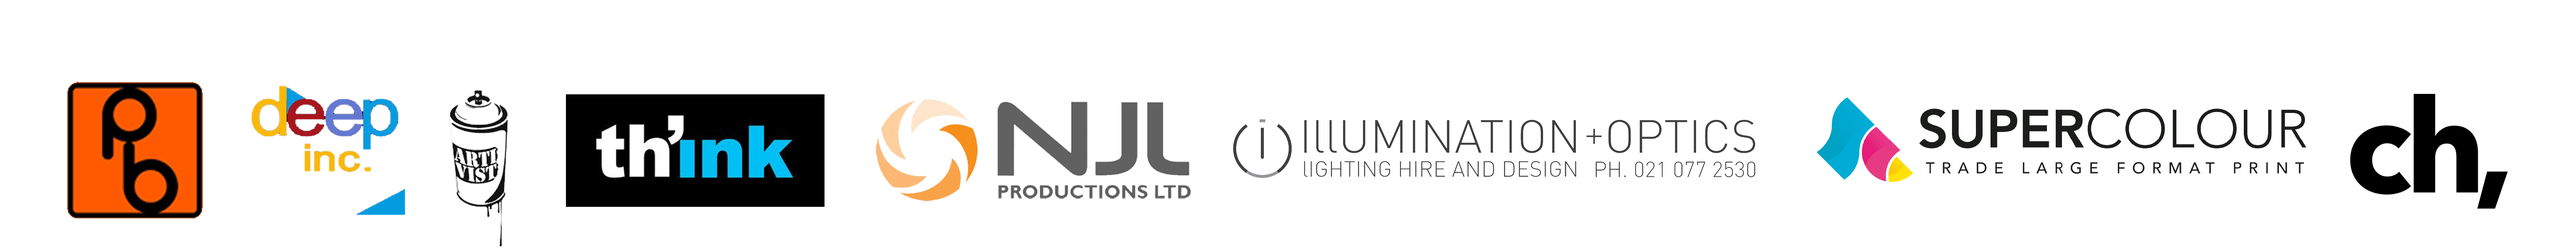
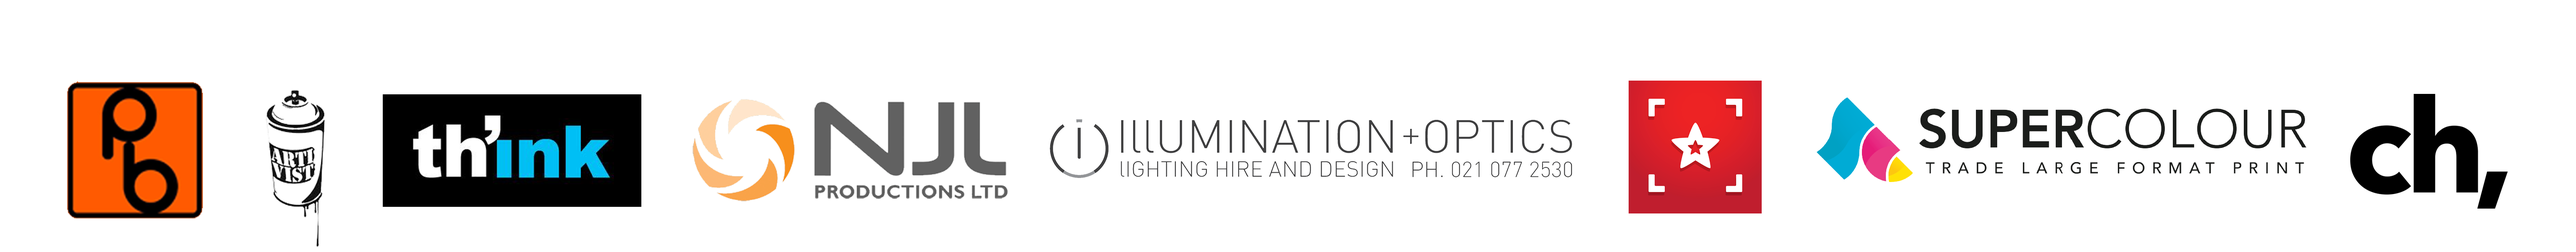
Client requests

Changed region(s): [[0.0935, 0.2988, 0.6856, 0.8664]]

diff --git a/public/css/custom.css b/public/css/custom.css
@@ -5,6 +5,9 @@
 	html {
 		padding-bottom: 0px !important;
 		padding-bottom: 0px !important;
+		background: #c2180f;
+		background: linear-gradient(90deg, #c2180f, #e06019);
+		color: #fff;
 	}
 	#ragapaBottomDiv {
 		display: none !important;
@@ -140,7 +143,7 @@
 	}
 	.cell3 {
 		background: #c2180f;
-		background: linear-gradient(30deg, #c2180f, #e06019);
+		background: linear-gradient(90deg, #c2180f, #e06019);
 		color: #fff;
 	}
 	.cell5 {
@@ -512,6 +515,18 @@
 		padding-top: 25px;
 		height: 0;
 	}
+	.videoWrapper img { 
+		position: absolute; 
+		display: block; 
+		top: 0; 
+		left: 0; 
+		width: 100%; 
+		height: 100%; 
+		z-index: 20; 
+		cursor: pointer; 
+	}
+	.video.player img { display: none; }
+.video.player:after { display: none; }
 	.videoWrapper iframe {
 		position: absolute;
 		top: 0;

diff --git a/public/js/jquery.js b/public/js/jquery.js
@@ -78,6 +78,23 @@ $(document).ready(function(){
     //     };
     
     // });
+    $(function() { 
+    var videos  = $(".videoWrapper");
+ 
+        videos.on("click", function(){
+            var elm = $(this),
+                conts   = elm.contents(),
+                le      = conts.length,
+                ifr     = null;
+ 
+            for(var i = 0; i<le; i++){
+              if(conts[i].nodeType == 8) ifr = conts[i].textContent;
+            }
+ 
+            elm.addClass("player").html(ifr);
+            elm.off("click");
+        });
+    });
 });
 
 

diff --git a/resources/views/capture.blade.php b/resources/views/capture.blade.php
@@ -40,28 +40,34 @@
     </div>
 </div>
 
-<div class="ozo">		
+<div class="cell4" id="cluster"> 
 	<div class="container paddingbottomextend paddingtopextend">
 		<div class="row">
-			<div class="col-md-8 col-md-offset-2 test">
-				<h3 class="darkblue"> NOKIA OZO</h3><br>
-				<p class="darkblue">Capturing 360° spherical video and 360x360 surround sound with unique interactive 
-				monitoring, OZO increases both the quality and efficiency of Virtual Reality production.</p>
+			<div class="col-md-5">
+				<h3 class=""> FREEDOM360 GOPRO RIG</h3><br>
+				<p class="">We use this cluster of GoPro cameras for most applications &amp; projects. Cost 
+				effective &amp; impressive results the cluster works by capturing a series of 170° x 120° native shots 
+				stitched together with clever software to create our immersive VR360° media.<br><br>
+				The complete cluster including patented mount weighs in at under 600grams &amp; is extremely versatile 
+				&amp; strong.  A shell makes the cluster waterproof for underwater shots; we mount on drones for flying 
+				/ tracking shots; &amp; we have custom designed remote control vehicles for terrestrial tracking shots. 
+				In the post production we can hide the mounting or vehicle in the seam of the stitch for a complete &amp; 
+				total immersive experience.</p>
 			</div>
-			<div class="col-md-8 col-md-offset-2 col-xs-12 carousel">
-				<div class="owl-carousel">
-					<div class="item" style="width:375px"><img src="img/ozo00.jpg"></div>
-				    <div class="item" style="width:312.5px"><img src="img/ozo01.jpg"></div>
-				    <div class="item" style="width:312.5px"><img src="img/ozo02.jpg"></div>
-				    <div class="item" style="width:375px"><img src="img/ozo03.jpg"></div>
-				    <div class="item" style="width:625px"><img src="img/ozo04.jpg"></div>
-				    <div class="item" style="width:437.5px"><img src="img/ozo05.jpg"></div>
-				    <div class="item" style="width:437.5px"><img src="img/ozo06.jpg"></div>
+			<div class="col-md-7">
+				<div class="moving-zone">
+				    <div class="popup">
+				        <img class="margin" src="img/fallback_sky2.2.jpg" width="100%">
+				        <div class="moving-zone-2">
+				        	<div class="popup-2">
+				        		<img src="img/cluster.png" width="105%">
+				        	</div>
+				        </div>
+				    </div>
 				</div>
 			</div>
-		</div>
+		 </div>
 	</div>
-	<img class="imgozo" src="img/ozo.png" width="100%">
 </div>
 
 <div class="fly">		
@@ -87,35 +93,31 @@
 	</div>
 	<img class="imgfly" src="img/360fly2.png" width="100%">
 </div>
-<div class="cell4" id="cluster"> 
+
+<div class="ozo">		
 	<div class="container paddingbottomextend paddingtopextend">
 		<div class="row">
-			<div class="col-md-5">
-				<h3 class=""> 360HEROS CLUSTER</h3><br>
-				<p class="">We use this cluster of GoPro cameras for most applications &amp; projects. Cost 
-				effective &amp; impressive results the cluster works by capturing a series of 170° x 120° native shots 
-				stitched together with clever software to create our immersive VR360° media.
-				The complete cluster including patented mount weighs in at under 600grams &amp; is extremely versatile 
-				&amp; strong.  A shell makes the cluster waterproof for underwater shots; we mount on drones for flying 
-				/ tracking shots; &amp; we have custom designed remote control vehicles for terrestrial tracking shots. 
-				In the post production we can hide the mounting or vehicle in the seam of the stitch for a complete &amp; 
-				total immersive experience.</p>
+			<div class="col-md-8 col-md-offset-2 test">
+				<h3 class="darkblue"> NOKIA OZO</h3><br>
+				<p class="darkblue">Capturing 360° spherical video and 360x360 surround sound with unique interactive 
+				monitoring, OZO increases both the quality and efficiency of Virtual Reality production.</p>
 			</div>
-			<div class="col-md-7">
-				<div class="moving-zone">
-				    <div class="popup">
-				        <img class="margin" src="img/fallback_sky2.2.jpg" width="100%">
-				        <div class="moving-zone-2">
-				        	<div class="popup-2">
-				        		<img src="img/cluster.png" width="105%">
-				        	</div>
-				        </div>
-				    </div>
+			<div class="col-md-8 col-md-offset-2 col-xs-12 carousel">
+				<div class="owl-carousel">
+					<div class="item" style="width:375px"><img src="img/ozo00.jpg"></div>
+				    <div class="item" style="width:312.5px"><img src="img/ozo01.jpg"></div>
+				    <div class="item" style="width:312.5px"><img src="img/ozo02.jpg"></div>
+				    <div class="item" style="width:375px"><img src="img/ozo03.jpg"></div>
+				    <div class="item" style="width:625px"><img src="img/ozo04.jpg"></div>
+				    <div class="item" style="width:437.5px"><img src="img/ozo05.jpg"></div>
+				    <div class="item" style="width:437.5px"><img src="img/ozo06.jpg"></div>
 				</div>
 			</div>
-		 </div>
+		</div>
 	</div>
+	<img class="imgozo" src="img/ozo.png" width="100%">
 </div>
+
 
 <div class="process">
 	<div class="container no-padding-bottom no-padding-top">
@@ -174,10 +176,14 @@
 				<br><br>
 				+NZVR360° come ready for your location &amp; can even provide the espresso machine; our production 
 				involves all audio (playback &amp; recording) &amp; lighting for any location requirement.</p>
+				<form target="_blank" action="http://www.planbeta.co.nz/make" class="button2">
+                    <div class="btn"><input type="submit" value="Location &amp; Event Services"></div>
+                </form>
 			</div>
 		</div>
 		<br><br>
 		<div class="row">
+
 		</div>
 	</div>
 </div>

diff --git a/resources/views/delivery.blade.php b/resources/views/delivery.blade.php
@@ -64,6 +64,9 @@
 				experiences that change how we communicate, how we are entertained, &amp; 
 				how we learn &amp; train. Each &amp; every component has been redesigned from 
 				the ground up to provide better comfort, ergonomics, &amp; performance.</p>
+				<form target="_blank" action="https://www.htcvive.com/anz/" class="button2">
+                    <div class="btn"><input type="submit" value="Learn More"></div>
+                </form>
 			</div>
 			<div class="col-md-8 col-md-offset-2 col-xs-12">
 				<div class="videoWrapper">
@@ -91,6 +94,7 @@
 				The magic of presence
 				Rift’s advanced display technology combined with its precise, low-latency constellation tracking system enables the sensation of presence – the feeling as though you’re actually there. The magic of presence changes everything. You’ve never experienced immersion like this.
 				</p>
+				
 			</div>
        	</div>
     </div>
@@ -159,12 +163,11 @@
 	<div class="container paddingtopextend">
 		<div class="row">
 			<div class="col-md-6">
-				<h3>VRIDEO / STREAM - PLAY - UPLOAD - APPS</h3><br>
-				<p>Virtual reality is finally on the verge of its breakthrough. This represents a huge opportunity not only for gaming, but also for immersive video.
+				<h3>LITTLSTAR - PLAY - UPLOAD - APPS</h3>
+				<span><p> THE WORLD REVOLVES AROUND YOU</p></span>
+				<p>LITTLSTAR IS A GLOBAL NETWORK DEDICATED TO VIRTUAL REALITY AND 360 CONTENT.
 				<br><br>
-				Over the history of entertainment, each new media format to emerge has represented a step forward in immersion and presence. Immersive video is arguably the culmination of this evolution, a media format in which consuming content is becoming indistinguishable from having real life experiences.
-				<br><br>
-				Vrideo was founded in 2014 by entrepreneurs Alex Rosenfeld and Kuangwei Hwang to address the needs of the growing community of producers looking to distribute immersive video and the growing audience of consumers looking to discover immersive video. We're building a centralised, streaming, hardware-agnostic, and independent platform for immersive video.</p>
+				Littlstar are excited and passionate about the future of entertainment, education, storytelling and immersive experiences powered by the new medium of virtual reality. The innovations in the space allow us to be instantly catapulted into experiences ranging from a front row seat at a concert to a shark infested shipwreck on everything from your mobile device, desktop, television, or headset.</p>
 			</div>
 			<div class="col-md-6">
 				<img src="img/vrideo2.png" class="center-block" width="100%">
@@ -172,30 +175,8 @@
 		</div>
 		<div class="row">
 			<div class="col-md-6">
-				<form target="_blank" action="https://www.vrideo.com" class="button2">
-                    <div class="btn"><input type="submit" value="www.vrideo.com"></div>
-                </form><br>
-			</div>
-		</div>
-	</div>
-</div>
-<div class="ozo"> 
-	<div class="container paddingbottomextend">
-		<div class="row">
-			<div class="col-md-6 pull-right">
-				<h3>DEEP INC / LIQUID CINEMA</h3><br>
-				<p>LIQUID CINEMA™ is a revolutionary software product that allows the creation and distribution of highly sophisticated immersive 360 VR based cinema experiences. It puts easy to use affordable authoring tools in the hands of producers, filmmakers, and interactive artists, while at the same time giving online content producers, such as broadcasters an out of the box solution to distribute cinematic VR content to audiences around the world, via the web, mobile and dedicated VR devices in a cost effective manner.
-				<br><br>
-				Powered by DEEP’s Liquid Cinema technology, we have launched the first broadcaster dedicated 360/VR platform:  ARTE360. This mobile app from the European cultural network ARTE provides immersive and interactive experiences in 360°-video and virtual reality and is available on both iOS and Android.</p>
-			</div>
-			<div class="col-md-6">
-				<img src="img/deepinc.png" class="center-block" width="100%">
-			</div>
-		</div>
-		<div class="row">
-			<div class="col-md-6 pull-right">
-				<form target="_blank" action="http://deep-inc.com" class="button2">
-                    <div class="btn"><input type="submit" value="www.deep-inc.com"></div>
+				<form target="_blank" action="https://littlstar.com/nzvr360" class="button2">
+                    <div class="btn"><input type="submit" value="www.littlstar.com"></div>
                 </form><br>
 			</div>
 		</div>

diff --git a/resources/views/home.blade.php b/resources/views/home.blade.php
@@ -46,8 +46,10 @@
     	<div class="row nopadmarg flexbox">
 			<div class="col-md-6 cell4 nopadmarg captdeli table-cell3">
 	    		<div class="row nopadmarg2 deli relative" >
-	    			<h2>LIVE</h2>
-                    <p>Experience +NZVR360° right here, right now. Live is compatible with Desktop, Mobile and VR Dedicated devices. </p>
+	    			<h2>PREVIEW</h2>
+                    <p>Experience a preview of +NZVR360° right here, right now. Preview is compatible with Desktop, Mobile &amp; VR Dedicated devices. 
+                    Keep an eye out for more &amp; don't forget to check out our <strong><a class="white" target="_blank" href="https://littlstar.com/nzvr360">'LITTLSTAR'</a></strong>
+                    profile for more videos!</p>
                     <h1 class="center font-large"><a class="whiteplay opacity" href="/live"><i class="fa fa-play"></i></a></h1>
     			</div>
     		</div>
@@ -104,7 +106,8 @@
     			<div class="row nopadmarg2 deli" >
     				<h4 class="center">"HIT THE GROUND RUNNING"</h4><br>
                     <div class="videoWrapper">
-                        <iframe width='560' height='350' src='http://www.vrideo.com/embed/bnOWUbFQ' scrolling='no' frameborder='0' allowfullscreen='1'></iframe>                    
+                        <img src="img/poster.jpg">
+                        <!-- <iframe src='https://embed.littlstar.com/videos/977f020a' width='640px' height='360px' class='lsplayer-frame' frameborder='0' allowfullscreen></iframe> -->
                     </div>
     			</div>
 	    	</div>

diff --git a/resources/views/master.blade.php b/resources/views/master.blade.php
@@ -72,7 +72,6 @@
                     <li><a href="/">+NZVR360°</a></li>
                     <li><a href="/capture">CAPTURE</a></li>
                     <li><a href="/delivery">DELIVERY</a></li>
-                    <li><a href="/live">LIVE</a></li>
                 </ul>
             </div>  
         </div>
@@ -123,8 +122,8 @@
                         <li><a class="white" href="/">_ HOME</a></li>
                         <li><a class="white" href="/capture">_ CAPTURE</a></li>
                         <li><a class="white" href="/delivery">_ DELIVERY</a></li>
-                        <li><a class="white" href="/live">_ LIVE</a></li>
-                        <li><a class="white" href="/projects">_ CONTENT</a></li>
+                        <li><a class="white" href="/live">_ PREVIEW</a></li>
+                        <li><a class="white" target="_blank" href="http://www.nzvr360.com/content/">_ CONTENT</a></li>
                         <li><a class="white" target="_blank" href="http://www.nzvr360.com/news/">_ NEWS</a></li>
                     </ul>
                 </div>
